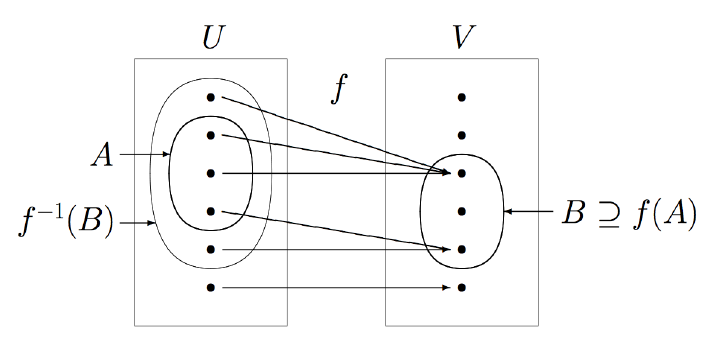
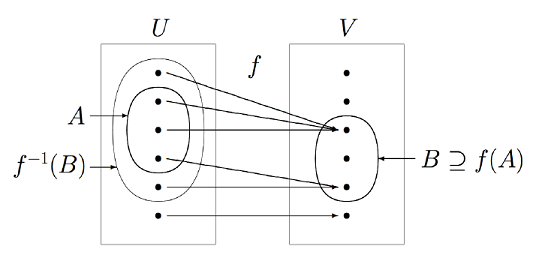
fix link error

diff --git a/posts/chapter-1/2-probability.md b/posts/chapter-1/2-probability.md
@@ -9,14 +9,17 @@
 집합론(set theory)은 추상적 대상들의 모임인 집합을 연구하는 수학 이론이다. 기본적인 개념은 위키링크를 달아 두었다.
 
 * [집합(set)](https://ko.wikipedia.org/wiki/집합): 특정 조건에 맞는 원소들의 모임
-* [원소(element)](https://ko.wikipedia.org/wiki/원소_(수학) ): 집합을 이루는 개체, 원소 $$a$$가 집합 $$A$$에 속할 경우 $$a \in A$$라고 표기한다.
+* [원소(element)](https://ko.wikipedia.org/wiki/원소_\(수학\) ): 집합을 이루는 개체, 원소 $$a$$가 집합 $$A$$에 속할 경우 $$a \in A$$라고 표기한다.
 * [부분 집합(subset)](https://ko.wikipedia.org/wiki/부분집합): 집합 A의 모든 원소가 다른 집합 B에도 속하는 관계일 경우, A는 B의 "부분 집합"이라고 한다.
 * [전체집합(universal set)](https://ko.wikipedia.org/wiki/전체집합): 모든 대상(자기 자신도 포함)을 원소로 포함하는 집합
-* [집합의 연산(set operations)](https://en.wikipedia.org/wiki/Set_(mathematics)#Basic_operations) 
+* [집합의 연산(set operations)](https://en.wikipedia.org/wiki/Set_\(mathematics\)#Basic_operations) 
     * [합집합(Unions)](https://ko.wikipedia.org/wiki/합집합)
     * [교집합(Intersections)](https://ko.wikipedia.org/wiki/교집합)
     * [여집합(Complements)](https://ko.wikipedia.org/wiki/여집합)
-    * [곱집합(product set, Cartesian product)](https://ko.wikipedia.org/wiki/곱집합): 각 집합의 원소를 각 선분으로 하는 튜플(tuple)들의 집합, $$ A \times B = \{ (a, b): \mathtt{a} \in A, \mathtt{b} \in B\}$$
+    * [곱집합(product set, Cartesian product)](https://ko.wikipedia.org/wiki/곱집합): 각 집합의 원소를 각 선분으로 하는 튜플(tuple)들의 집합 
+        
+        $$ A \times B = \{ (a, b): \mathtt{a} \in A, \mathtt{b} \in B\}$$
+        
         * 예시: $$A = \{ 1, 2 \}, B = \{ 3, 4, 5 \} \rightarrow A \times B = \{ (1,3), (1,4), (1,5), (2,3), (2,4), (2,5) \}$$
 * [서로소 집합(disjoint set)](https://ko.wikipedia.org/wiki/서로소_집합): 공통 원소가 없는 두 집합, $$A \cap B = \emptyset $$
 * [집합의 분할(partition of a set)](https://ko.wikipedia.org/wiki/집합의_분할): 집합의 원소들을 비공 부분 집합들에게 나눠주어, 모든 원소가 각자 정확히 하나의 부분 집합에 속하게끔 하는 것
@@ -29,13 +32,15 @@
 
 ## Function
 
-<img src="/figs/chapter-2/1.2.1-function.png" desc="1.2.1" width=75% />
+![1.2.1](/figs/chapter-2/1.2.1-function.png)
+
+<img src="/figs/chapter-2/1.2.1-function.png" desc="1.2.1" width="75%" >
 
 * [함수/사상(function/mapping)](https://ko.wikipedia.org/wiki/함수): 첫 번째 집합의 임의의 한 원소를 두 번째 집합의 오직 한 원소에 대응시키는 이항 관계이다. 입력이 되는 집합 $$U$$를 정의역(domain), 출력으로 대응되는 집합 $$V$$를 공역(codomain)이라고 한다. 
     
     $$f: \underset{domain}{U} \rightarrow \underset{codomain}{V}$$
 
-* [상(image)](https://ko.wikipedia.org/wiki/상_(수학)): domain의 원소(혹은 부분 집합)가 대응하는 codomain의 원소(혹은 집합) 
+* [상(image)](https://ko.wikipedia.org/wiki/상_\(수학\)): domain의 원소(혹은 부분 집합)가 대응하는 codomain의 원소(혹은 집합) 
     
     $$f(x) \in V, x \in U \quad \text{or} \quad f(A) = \{ f(x) \vert x \in A \} \sube V, A \sube U $$
 
